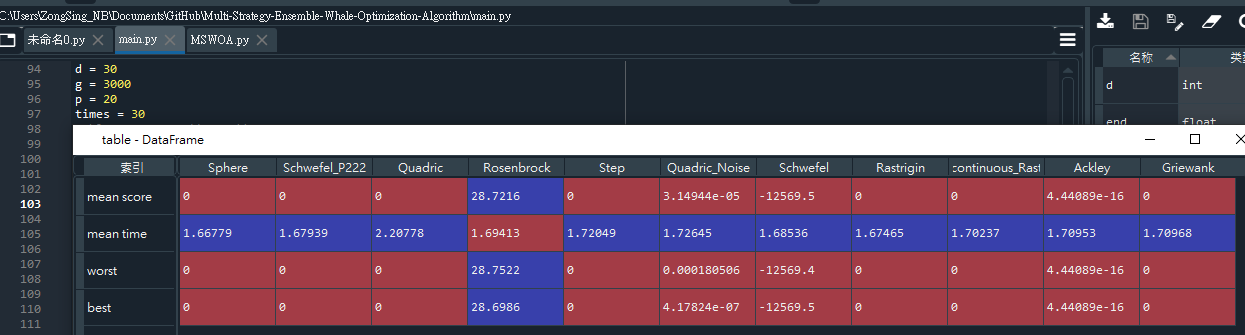
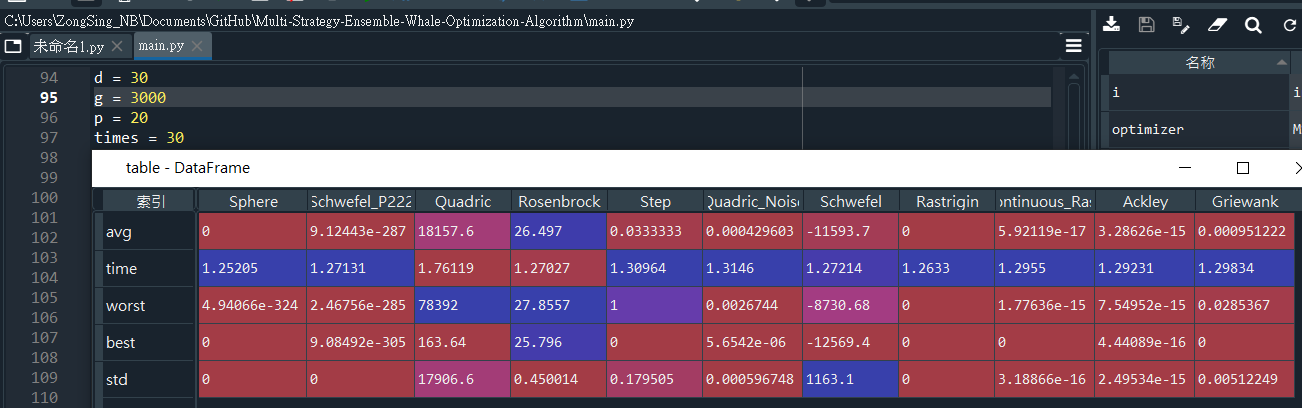
2020.08.20

diff --git a/main.py b/main.py
@@ -95,9 +95,10 @@ d = 30
 g = 3000
 p = 20
 times = 30
-table = np.zeros((4, 11))
+table = np.zeros((5, 11))
 table[2, :] = -np.ones(11)*np.inf
 table[3, :] = np.ones(11)*np.inf
+ALL = np.zeros((times, 11))
 for i in range(times):
     x_max = 100*np.ones(d)
     x_min = -100*np.ones(d)
@@ -110,6 +111,7 @@ for i in range(times):
     if optimizer.gBest_score<table[3, 0]: table[3, 0] = optimizer.gBest_score
     table[0, 0] += optimizer.gBest_score
     table[1, 0] += end - start 
+    ALL[i, 0] = optimizer.gBest_score
 
 
     x_max = 10*np.ones(d)
@@ -123,6 +125,7 @@ for i in range(times):
     if optimizer.gBest_score<table[3, 1]: table[3, 1] = optimizer.gBest_score
     table[0, 1] += optimizer.gBest_score
     table[1, 1] += end - start  
+    ALL[i, 1] = optimizer.gBest_score
 
     
     x_max = 100*np.ones(d)
@@ -136,6 +139,7 @@ for i in range(times):
     if optimizer.gBest_score<table[3, 2]: table[3, 2] = optimizer.gBest_score
     table[0, 2] += optimizer.gBest_score
     table[1, 2] += end - start
+    ALL[i, 2] = optimizer.gBest_score
   
  
     x_max = 10*np.ones(d)
@@ -149,6 +153,7 @@ for i in range(times):
     if optimizer.gBest_score<table[3, 3]: table[3, 3] = optimizer.gBest_score  
     table[0, 3] += optimizer.gBest_score
     table[1, 3] += end - start   
+    ALL[i, 3] = optimizer.gBest_score
 
    
     x_max = 100*np.ones(d)
@@ -162,6 +167,7 @@ for i in range(times):
     if optimizer.gBest_score<table[3, 4]: table[3, 4] = optimizer.gBest_score  
     table[0, 4] += optimizer.gBest_score
     table[1, 4] += end - start
+    ALL[i, 4] = optimizer.gBest_score
   
   
     x_max = 1.28*np.ones(d)
@@ -175,6 +181,7 @@ for i in range(times):
     if optimizer.gBest_score<table[3, 5]: table[3, 5] = optimizer.gBest_score   
     table[0, 5] += optimizer.gBest_score
     table[1, 5] += end - start
+    ALL[i, 5] = optimizer.gBest_score
  
  
     x_max = 500*np.ones(d)
@@ -188,6 +195,7 @@ for i in range(times):
     if optimizer.gBest_score<table[3, 6]: table[3, 6] = optimizer.gBest_score   
     table[0, 6] += optimizer.gBest_score
     table[1, 6] += end - start
+    ALL[i, 6] = optimizer.gBest_score
   
 
     x_max = 5.12*np.ones(d)
@@ -201,6 +209,7 @@ for i in range(times):
     if optimizer.gBest_score<table[3, 7]: table[3, 7] = optimizer.gBest_score   
     table[0, 7] += optimizer.gBest_score
     table[1, 7] += end - start  
+    ALL[i, 7] = optimizer.gBest_score
 
 
     x_max = 5.12*np.ones(d)
@@ -214,6 +223,7 @@ for i in range(times):
     if optimizer.gBest_score<table[3, 8]: table[3, 8] = optimizer.gBest_score  
     table[0, 8] += optimizer.gBest_score
     table[1, 8] += end - start
+    ALL[i, 8] = optimizer.gBest_score
   
  
     x_max = 32*np.ones(d)
@@ -227,6 +237,7 @@ for i in range(times):
     if optimizer.gBest_score<table[3, 9]: table[3, 9] = optimizer.gBest_score  
     table[0, 9] += optimizer.gBest_score
     table[1, 9] += end - start
+    ALL[i, 9] = optimizer.gBest_score
    
  
     x_max = 600*np.ones(d)
@@ -240,12 +251,14 @@ for i in range(times):
     if optimizer.gBest_score<table[3, 10]: table[3, 10] = optimizer.gBest_score  
     table[0, 10] += optimizer.gBest_score
     table[1, 10] += end - start  
+    ALL[i, 10] = optimizer.gBest_score
     
     print(i+1)
     
     
 table[:2, :] = table[:2, :] / times
+table[4, :] = np.std(ALL, axis=0)
 table = pd.DataFrame(table)
 table.columns=['Sphere', 'Schwefel_P222', 'Quadric', 'Rosenbrock', 'Step', 'Quadric_Noise', 'Schwefel', 
                 'Rastrigin', 'Noncontinuous_Rastrigin', 'Ackley', 'Griewank']
-table.index = ['mean score', 'mean time', 'worst', 'best']
+table.index = ['avg', 'time', 'worst', 'best', 'std']

diff --git a/MSWOA.py b/MSWOA.py
@@ -73,9 +73,9 @@ class MSWOA():
                     if p>0.5:                    
                         D = np.abs(self.gBest_X - self.X[i, :])
                         if np.abs(A)<1:
-                            self.X[i, :] = self.gBest_X + D*np.exp(self.b*l)*np.cos(2*np.pi*l)*self.levy(size=1)
+                            self.X[i, :] = self.gBest_X + D*np.exp(self.b*l)*np.cos(2*np.pi*l)*self.levy(size=30)
                         else:
-                            self.X[i, :] = self.X[i, :] + D*np.exp(self.b*l)*np.cos(2*np.pi*l)*self.levy(size=1)
+                            self.X[i, :] = self.X[i, :] + D*np.exp(self.b*l)*np.cos(2*np.pi*l)*self.levy(size=30)
                     else:
                         if np.abs(A)<1:
                             D = np.abs(C*self.gBest_X - self.X[i, :])
